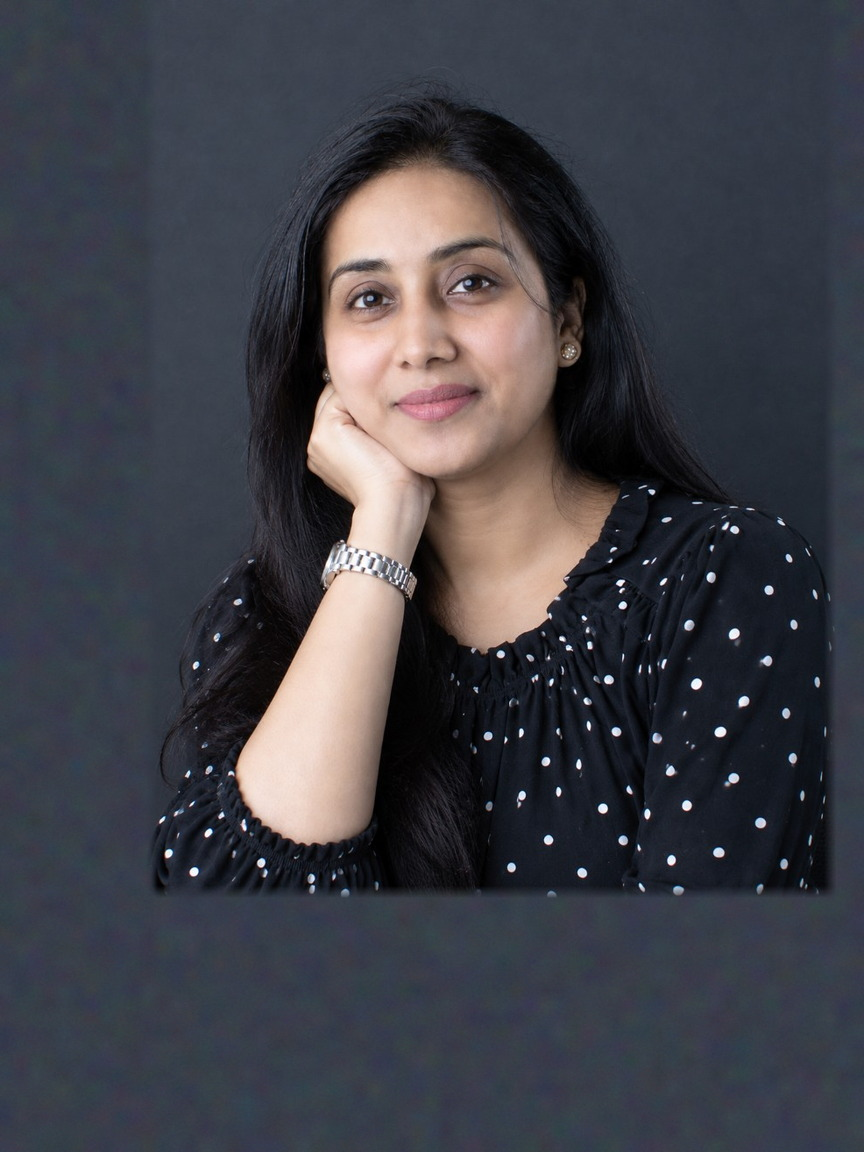
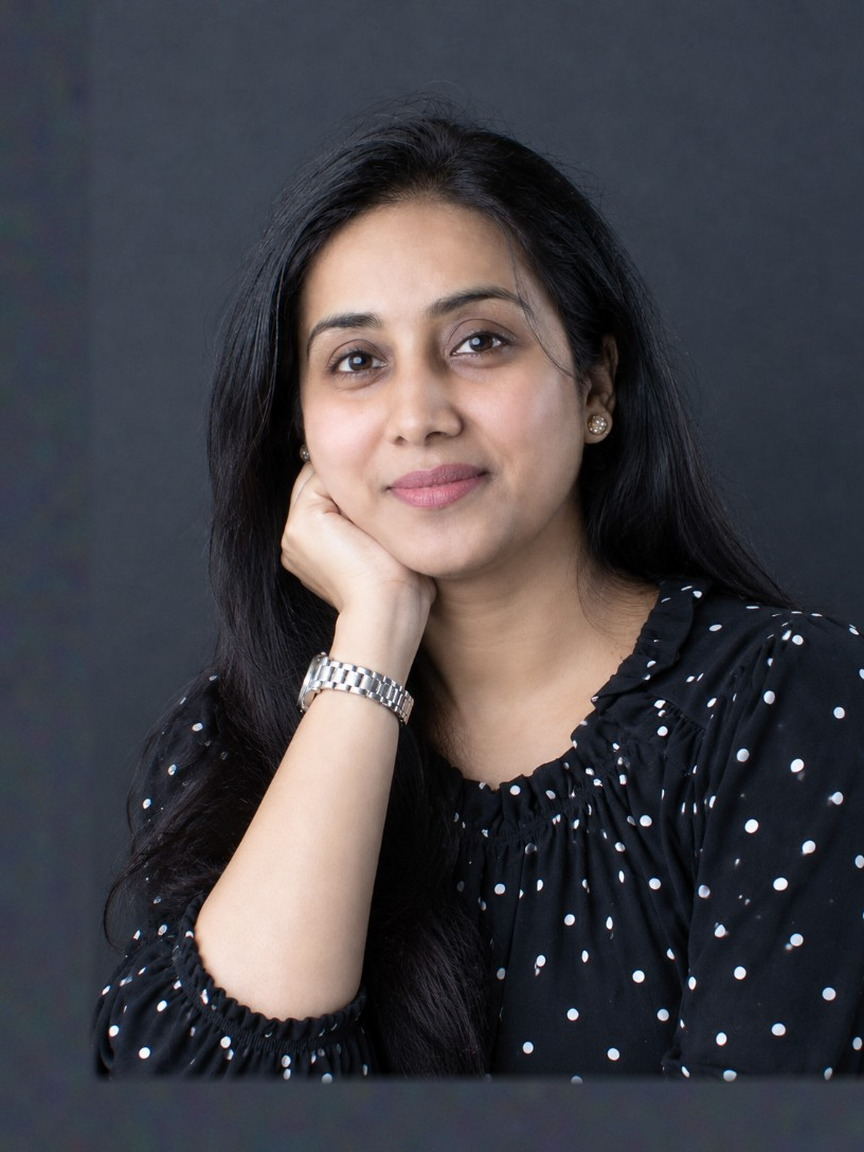
Mid-frame Priya Nair DP between desk147 and desk148 (desk149).
Target site faceH ~0.31 with face centered; bump JPEG ?v=3 and app.js cache to desk149.

diff --git a/js/app.js b/js/app.js
@@ -814,7 +814,7 @@ const MENTORS = [
   { name: "Ananya Rao", role: "Long-term investor", tag: "Portfolio", img: "/img/instructors/ananya-rao.jpg?v=2" },
   { name: "Kabir Joshi", role: "Index options", tag: "Bank Nifty", img: "/img/instructors/kabir-joshi.jpg?v=10" },
   { name: "Rohan Desai", role: "Fund researcher", tag: "Mutual funds", img: "/img/instructors/rohan-desai.jpg?v=13" },
-  { name: "Priya Nair", role: "Asset allocation", tag: "SIP lab", img: "/img/instructors/priya-nair.jpg?v=2" },
+  { name: "Priya Nair", role: "Asset allocation", tag: "SIP lab", img: "/img/instructors/priya-nair.jpg?v=3" },
   { name: "Meera Iyer", role: "Options coach", tag: "Defined risk", img: "/img/instructors/meera-iyer.jpg?v=1" }
 ];
 
@@ -4934,6 +4934,7 @@ function traderIcon(kind) {
 /* cache-bust desk146: Kabir Joshi DP from user photo ref (scrub sparkle; site 640x860 + flutter 864x1152) /img/instructors/kabir-joshi.jpg?v=10 */
 /* cache-bust desk147: Priya Nair DP from user photo ref (site 640x860 + flutter 864x1152) /img/instructors/priya-nair.jpg?v=1 */
 /* cache-bust desk148: Priya Nair DP zoom-out half-body Neha-scale (site 640x860 + flutter 864x1152) /img/instructors/priya-nair.jpg?v=2 */
+/* cache-bust desk149: Priya Nair DP mid framing faceH~0.31 (site 640x860 + flutter 864x1152) /img/instructors/priya-nair.jpg?v=3 */
 function traderCardHTML(m, i, opts = {}) {
   const title = String(m.role || m.tag || "Mentor").trim();
   const cloneAttrs = opts.clone ? ' tabindex="-1" aria-hidden="true"' : "";

diff --git a/account.html b/account.html
@@ -17,7 +17,7 @@
   <div id="site-header"></div>
   <main id="accountRoot" class="ld-page"></main>
   <div id="site-footer"></div>
-  <script src="/js/app.js?v=desk148" defer></script>
+  <script src="/js/app.js?v=desk149" defer></script>
   <script src="/js/lms.js?v=cert2" defer></script>
 </body>
 </html>

diff --git a/learning.html b/learning.html
@@ -17,7 +17,7 @@
   <div id="site-header"></div>
   <main id="myLearning" class="ld-page"></main>
   <div id="site-footer"></div>
-  <script src="/js/app.js?v=desk148" defer></script>
+  <script src="/js/app.js?v=desk149" defer></script>
   <script src="/js/lms.js?v=cert2" defer></script>
 </body>
 </html>

diff --git a/course.html b/course.html
@@ -22,7 +22,7 @@
     </div>
   </main>
   <div id="site-footer"></div>
-  <script src="/js/app.js?v=desk148" defer></script>
+  <script src="/js/app.js?v=desk149" defer></script>
   <script src="/js/lms.js?v=cert2" defer></script>
   <script src="/js/drm.js?v=desk29" defer></script>
 </body>

diff --git a/contact.html b/contact.html
@@ -48,7 +48,7 @@
   </main>
   <div id="site-footer"></div>
   <script src="/js/help-faqs.js?v=faq1" defer></script>
-  <script src="/js/app.js?v=desk148" defer></script>
+  <script src="/js/app.js?v=desk149" defer></script>
   <script src="/js/lms.js" defer></script>
 </body>
 </html>

diff --git a/certificate.html b/certificate.html
@@ -19,7 +19,7 @@
     <div id="certRoot"></div>
   </main>
   <div id="site-footer"></div>
-  <script src="/js/app.js?v=desk148" defer></script>
+  <script src="/js/app.js?v=desk149" defer></script>
   <script src="/js/lms.js?v=cert2" defer></script>
 </body>
 </html>

diff --git a/control.html b/control.html
@@ -253,7 +253,7 @@
         loading = true;
         busy(true);
         var files = [
-          "/js/app.js?v=desk148",
+          "/js/app.js?v=desk149",
           "/js/lms.js",
           "/js/admin-core.js?v=desk8",
           "/js/admin.js?v=drm5",

diff --git a/index.html b/index.html
@@ -415,7 +415,7 @@
     </section>
   </main>
   <div id="site-footer"></div>
-  <script src="/js/app.js?v=desk148" defer></script>
+  <script src="/js/app.js?v=desk149" defer></script>
   <script src="/js/lms.js?v=cert2" defer></script>
 </body>
 </html>

diff --git a/live-room.html b/live-room.html
@@ -22,7 +22,7 @@
 </head>
 <body class="live-room-page">
   <div id="liveRoom"></div>
-  <script src="/js/app.js?v=desk148" defer></script>
+  <script src="/js/app.js?v=desk149" defer></script>
   <script src="/js/lms.js" defer></script>
 </body>
 </html>

diff --git a/nifty-options.html b/nifty-options.html
@@ -44,7 +44,7 @@
     </section>
   </main>
   <div id="site-footer"></div>
-  <script src="/js/app.js?v=desk148" defer></script>
+  <script src="/js/app.js?v=desk149" defer></script>
   <script src="/js/lms.js?v=cert2" defer></script>
 </body>
 </html>

diff --git a/option-trading-course.html b/option-trading-course.html
@@ -44,7 +44,7 @@
     </section>
   </main>
   <div id="site-footer"></div>
-  <script src="/js/app.js?v=desk148" defer></script>
+  <script src="/js/app.js?v=desk149" defer></script>
   <script src="/js/lms.js?v=cert2" defer></script>
 </body>
 </html>

diff --git a/share-market-course-in-hindi.html b/share-market-course-in-hindi.html
@@ -42,7 +42,7 @@
     </section>
   </main>
   <div id="site-footer"></div>
-  <script src="/js/app.js?v=desk148" defer></script>
+  <script src="/js/app.js?v=desk149" defer></script>
   <script src="/js/lms.js?v=cert2" defer></script>
 </body>
 </html>
